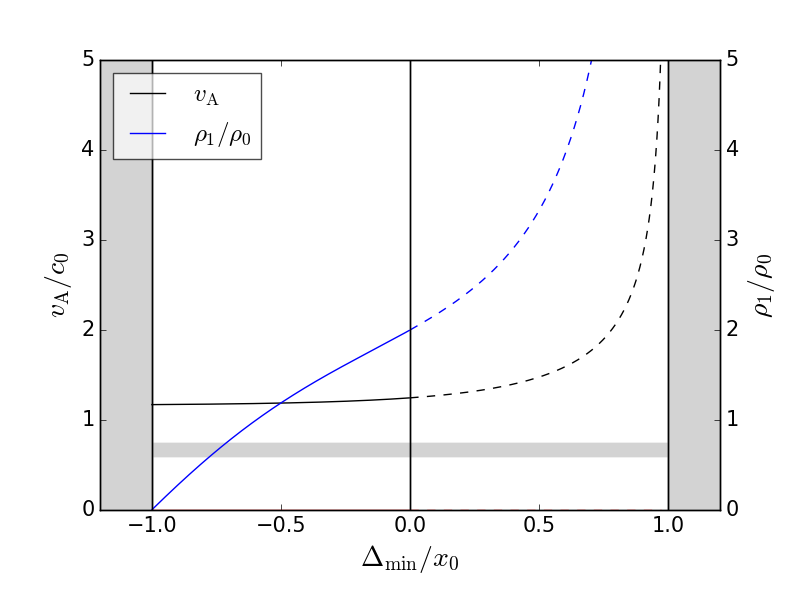
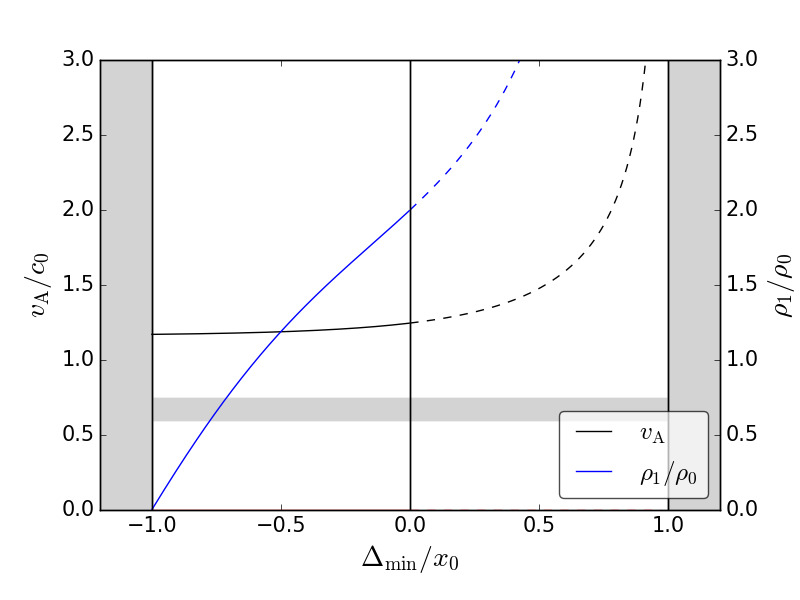
added a test plot for vA R! solutions. Looking strange

diff --git a/sms-vA-2var.py b/sms-vA-2var.py
@@ -47,8 +47,8 @@ show_DM = False
 show_scatter_RA = False
 show_scatter_DM = False
 #
-#show_RA = True
-show_DM = True
+show_RA = True
+#show_DM = True
 #show_scatter_RA = True
 #show_scatter_DM = True
 
@@ -118,6 +118,8 @@ def amp_ratio(W, K, vA, R1, mode):
         print(error_string_kink_saus)
     return ampfunction
 
+W_star = W * c0 / (np.sqrt(c0**2 - W**2))
+
 def amp_ratio_func(W, K, mode, vA, R1, RA):
     return amp_ratio(W, K, vA, R1, mode) - RA
     
@@ -169,18 +171,18 @@ if show_RA == True:
 #    RAmin = [1.01, 0.0, 0.77, -2., -0.7944, -0.7205]
 #    RAmax = [2.0, 0.69, 0.847, -1.1, -0.7, 0.0]
     
-    R1_guess = [1.5, 1.5]
-    vA_guess = [1.23, 1.23]
+    R1_guess = [1.5, 1.5, 2.22]
+    vA_guess = [1.23, 1.23, 1.16]
     
-    RAmin = [2., -2.]
-    RAmax = [-2., 2.]
+    RAmin = [2., -2., -2]
+    RAmax = [-2., 2., 2.]
     NRA = 500
     
 #    step = [0.0005, 0.0005, 0.001, 0.001, 0.0001, 0.0001]
     
     modes = [0,1]#[0,1]
     
-    branches = [1,1]#[3,3]
+    branches = [1,2]#[3,3]
     
     styles = ['--'] * branches[0] + ['-'] * branches[1]
 
@@ -205,11 +207,11 @@ if show_RA == True:
                     return [amp_ratio_func(W, K, mode, vA_R1[0], vA_R1[1], RA),
                             amp_ratio_func_2(W, K, mode, vA_R1[0], vA_R1[1], RA)]
                 if i != 0:
-                    if abs(vA_sol) > 5. or (mode_ind == 0 and RA < 0.) or (mode_ind == 1 and RA > 0.):
+                    if (mode_ind == 0 and RA < 0.) or (mode_ind == 1 and RA > 0.):
                         break
                     else:
                         vA_guess[nb], R1_guess[nb] = vA_sol, R1_sol
-                vA_sol, R1_sol = fsolve(function, [vA_guess[nb], R1_guess[nb]], xtol=1e-05)
+                vA_sol, R1_sol = fsolve(function, [vA_guess[nb], R1_guess[nb]], xtol=1e-08)
                 vA_sols.append(vA_sol)
                 R1_sols.append(R1_sol)
                 RA_sols.append(RA)
@@ -220,8 +222,28 @@ if show_RA == True:
             else:
                 ax1.plot(RA_sols, vA_sols, color='black', linestyle=styles[nb])
                 ax2.plot(RA_sols, R1_sols, color='blue', linestyle=styles[nb])
-#            plt.plot(RA_sols, disp_rel_asym(W, K, np.array(vA_sols), np.array(R1_sols)), color='red', linestyle=styles[nb])
-            
+            plt.plot(RA_sols, disp_rel_asym(W, K, np.array(vA_sols), np.array(R1_sols)), color='red', linestyle=styles[nb])
+        
+            if mode_ind == 0:
+                RA = 1.
+                def function(vA_R1):
+                    return [amp_ratio_func(W, K, mode, vA_R1[0], vA_R1[1], RA),
+                            amp_ratio_func_2(W, K, mode, vA_R1[0], vA_R1[1], RA)]
+                vA_guesses = np.linspace(0.00001, 10., 10)
+                R1_guesses = np.linspace(0.00001, 10., 10)
+                vA_sols = []
+                R1_sols = []                
+                for i,vA in enumerate(vA_guesses):
+                    for R1 in R1_guesses:
+                        vA_sol, R1_sol = fsolve(function, [vA, R1], xtol=1e-08)
+                        vA_sols.append(vA_sol)
+                        R1_sols.append(R1_sol)
+                        print('Finished i = ' + str(i))
+                print('vA_sols has length ' + str(len(vA_sols)))
+                ax1.plot([RA] * len(vA_sols), vA_sols, 'o')
+                ax2.plot([RA] * len(R1_sols), R1_sols, 'o', color='red')
+                
+        
         ax1.set_ylim([0.,3.])
         ax2.set_ylim([0.,3.])
         ax1.fill_between((-2., 2.), (W, W), [W * c0 / (np.sqrt(c0**2 - W**2))] * 2, color='lightgray')
@@ -232,14 +254,11 @@ if show_RA == True:
         
         lns = ln1+ln2
         labs = [l.get_label() for l in lns]
-        plt.legend(lns, labs, loc=0, fancybox=True, framealpha=0.7)
+        plt.legend(lns, labs, loc=4, fancybox=True, framealpha=0.7)
         
         
         
         plt.axvline(color='black')
-    #    ax.annotate('Body modes', xy=(1.2, 0.65), xycoords='data', annotation_clip=False, fontsize=12)
-    #    ax.annotate('Quasi-kink', xy=(0.15, 1.8), xycoords='data', annotation_clip=False, fontsize=15)
-    #    ax.annotate('Quasi-sausage', xy=(-1., 1.8), xycoords='data', annotation_clip=False, fontsize=15)
         plt.gcf().subplots_adjust(bottom=0.15)
     
 #        filename = 'RA_vA_approx_2var'
@@ -300,8 +319,8 @@ if show_DM == True:
                 ax2.plot(DM_sols, R1_sols, color='blue', linestyle=styles[nb])
             plt.plot(DM_sols, disp_rel_asym(W, K, np.array(vA_sols), np.array(R1_sols)), color='red', linestyle=styles[nb])
             
-        ax1.set_ylim([0.,5.])
-        ax2.set_ylim([0.,5.])
+        ax1.set_ylim([0., 3.])
+        ax2.set_ylim([0., 3.])
         plt.xlim([-1.2,1.2])
         ax1.fill_between((-1.2, 1.2), (W, W), [W * c0 / (np.sqrt(c0**2 - W**2))] * 2, color='lightgray')
         ax1.set_ylabel(r'$v_\mathrm{A}/c_0$', fontsize = 20)
@@ -313,7 +332,7 @@ if show_DM == True:
         
         lns = ln1+ln2
         labs = [l.get_label() for l in lns]
-        plt.legend(lns, labs, loc=0, framealpha=0.7)
+        plt.legend(lns, labs, loc=4, fancybox=True, framealpha=0.7)
         
         plt.axvline(color='black')
         plt.axvline(x=-1., color='black')
@@ -416,5 +435,5 @@ props = dict(boxstyle='round', facecolor='white', alpha=0.7)
 
 # place a text box in upper left in axes coords
 ax = plt.gca()
-ax.text(0.05, 0.95, textstr, transform=ax.transAxes, fontsize=16,
+ax.text(0.05, 0.95, textstr, transform=ax.transAxes, fontsize=17,
         verticalalignment='top', bbox=props)
